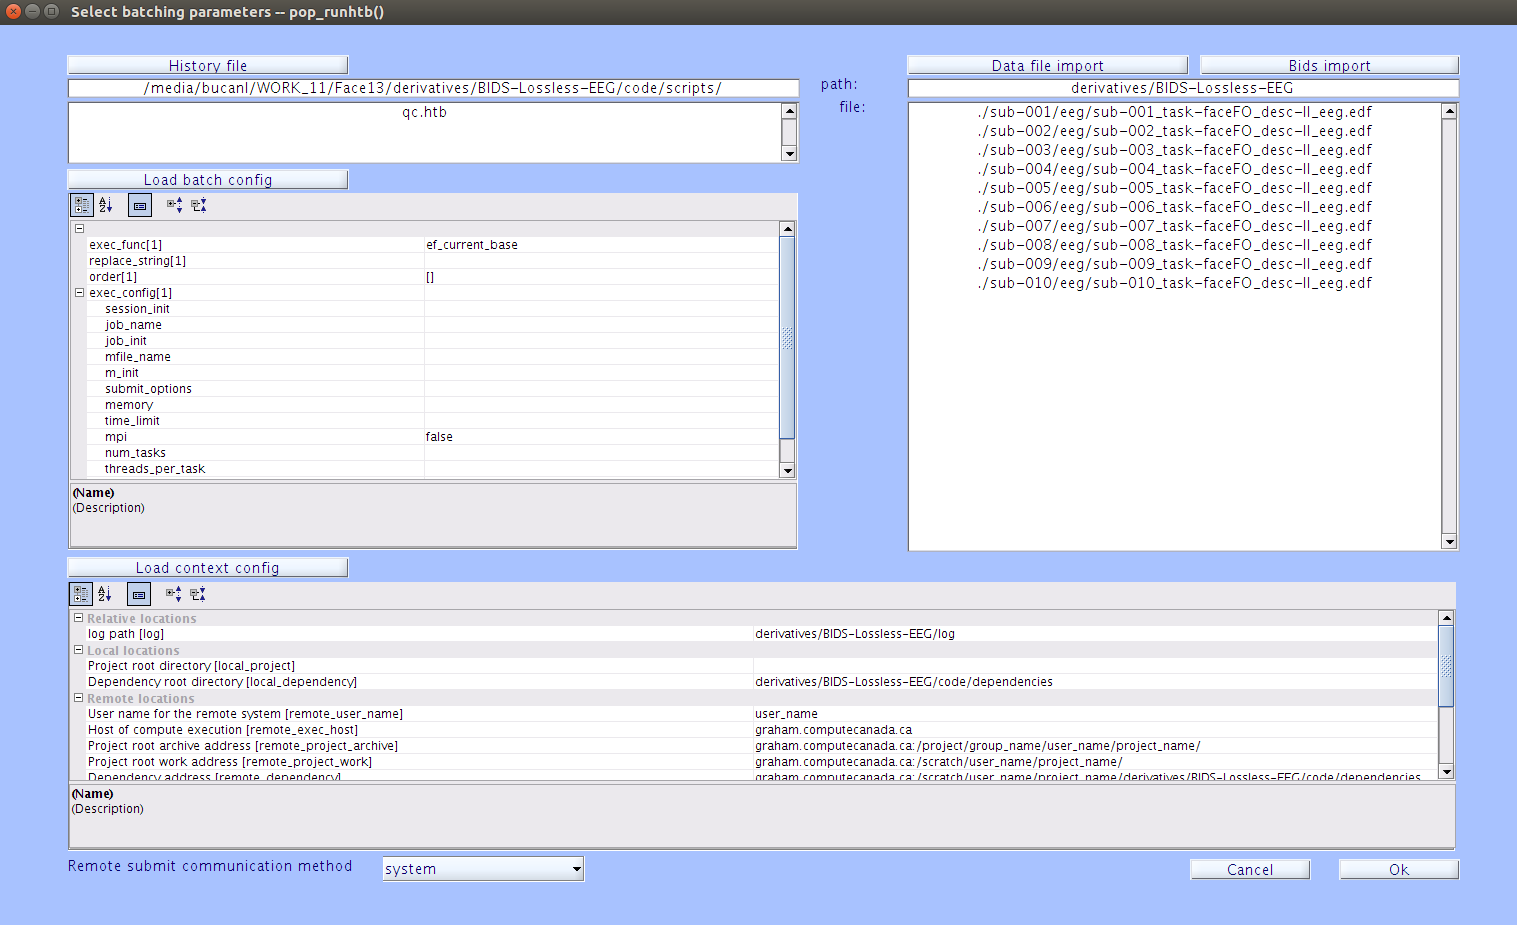
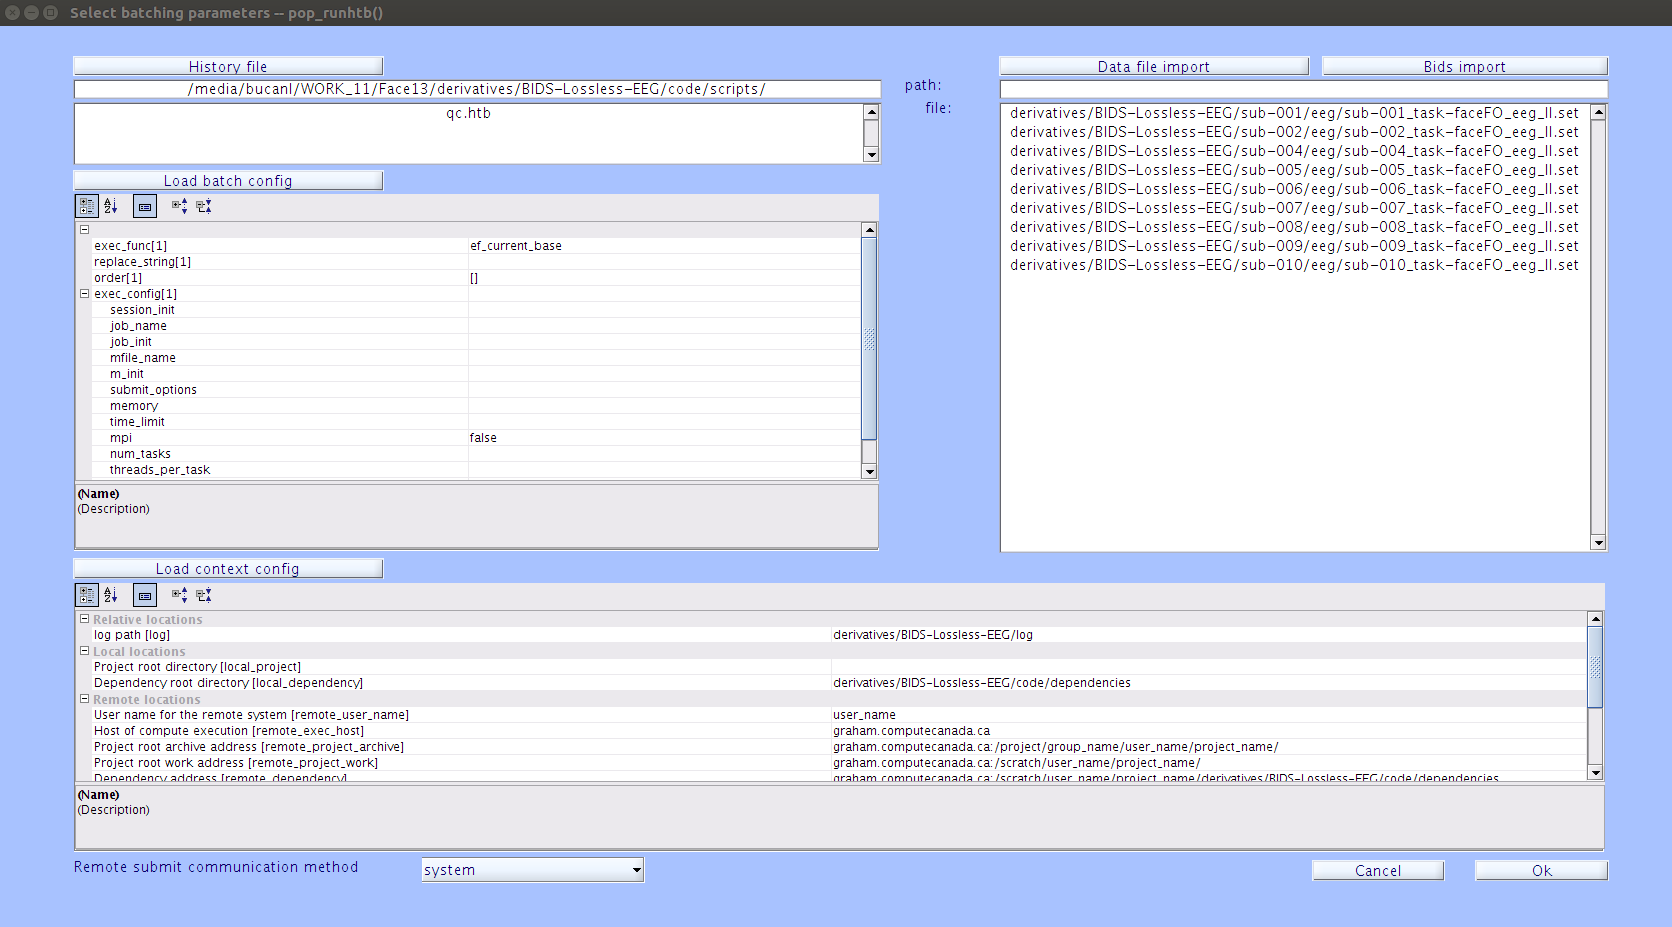
corrected steps for running QC script

diff --git a/_episodes/05-practice_qc.md b/_episodes/05-practice_qc.md
@@ -18,26 +18,26 @@ Now that we are familiar with the quality control procedure, we can practice int
 
 2. Open EEGLAB by typing the following into the command window:
 
-    ```matlab
-    >> addpath derivatives/BIDS-Lossless-EEG/code/install
-    >> lossless_path
-    >> eeglab
-    ```
+```matlab
+>> addpath derivatives/BIDS-Lossless-EEG/code/install
+>> lossless_path
+>> eeglab
+```
 
 3. If you are using an older version of MATLAB (pre-2014b), you will need to set the default figure renderer to OpenGL by typing the following into the command window:
 
-   
-    ```matlab
-    >> set(0,'DefaultFigureRenderer','OpenGL');
-    ```
+
+```matlab
+>> set(0,'DefaultFigureRenderer','OpenGL');
+```
 
 4. In the main EEGLAB window, navigate to **File->Vised Configuration**. 
 
-    ![Vised Config Dropdown Menu]({{ page.root }}/fig/visedconfig_dropdown.png)
+![Vised Config Dropdown Menu]({{ page.root }}/fig/visedconfig_dropdown.png)
 
-5. Add the vised configuration file by clicking `| Load vised config |` and then navigate to the config folder (`derivatives/BIDS-Lossless-EEG/code/config/`). Select the file named `vised_config_qc.cfg`, and click `| OK |`. The vised configuration file will load certain settings that are preferable for the QC procedure.
+5. Add the vised configuration file by clicking `| Load vised config |` and then navigate to the config folder (`derivatives/BIDS-Lossless-EEG/code/config/`). Select the file named `vised_config_qc.cfg`, and click `| OK |`. The vised configuration file will load certain settings that are preferable for the quality control (QC) procedure.
 
-    ![Vised Config Menu]({{ page.root }}/fig/visedconfig.png)
+![Vised Config Menu]({{ page.root }}/fig/visedconfig.png)
 
 6. In the main EEGLAB window, navigate to **File->Batch->Run History Template Batch**.
 
@@ -46,23 +46,21 @@ Now that we are familiar with the quality control procedure, we can practice int
 
 8. Click `| History File |` and add the `qc.htb` script located in `derivatives/BIDS-Lossless-EEG/code/scripts/`.
 
-    > ## Note 
-    > The `qc.htb` script is optimized to be run with a three monitor setup. If you do not have access to three monitors you should load the `qc_lite.htb` script located in `derivatives/BIDS-Lossless-EEG/code/scripts/`.      
-    > 
-    > {: .source}
-    {: .callout}
+> ## Note 
+> The `qc.htb` script is optimized to be run with a three monitor setup. If you do not have access to three monitors you should load the `qc_lite.htb` script located in `derivatives/BIDS-Lossless-EEG/code/scripts/`.      
+> 
+> {: .source}
+{: .callout}
 
-9. In the **path** field in the **Run History Template Batch** window, type `derivatives/BIDS-Lossless-EEG`.
+9. Open up a terminal window, and navigate to your project root directory directory:
 
-10. Open up a terminal window, and navigate to the `BIDS-Lossless-EEG` directory:
+`>> cd path/to/project/directory/Face13`
 
-    `>> cd path/to/project/directory/Face13/derivatives/BIDS-Lossless-EEG`
+10. In the terminal, list all the data files you would like to run through the QC procedure. This can be done using the find command. If using the BIDS directory structure, simply type:
 
-11. In the terminal, list all the data files you would like to run through the QC procedure. This can be done using the find command. If using the BIDS directory structure, simply type:
+`>> find derivatives/BIDS-Lossless-EEG -name "*_ll.set"`
 
-    `>> find . -name "*.edf"`
-
-12. This will print a list of all the files that have run through the pipeline. For this exercise, copy the edf file for **sub-002** from the terminal into the **file** field in the **Run History Template Batch** window. The history template batch window should look like this:
+12. This will print a list of all the files that have run through the pipeline. For this exercise, copy the .set file for **sub-002** from the terminal into the **file** field in the **Run History Template Batch** window. The history template batch window should look like this:
 
     ![RunHTB]({{ page.root }}/fig/runhtb_qc_sub2.png)
 

diff --git a/_episodes/01-running_QC_script.md b/_episodes/01-running_QC_script.md
@@ -46,31 +46,27 @@ keypoints:
 
 8. Click `| History File |` and add the `qc.htb` script located in `derivatives/BIDS-Lossless-EEG/code/scripts/`.
 
+> ## Note 
+> The `qc.htb` script is optimized to be run with a three monitor setup. If you do not have access to three monitors you should load the `qc_lite.htb` script located in `derivatives/BIDS-Lossless-EEG/code/scripts/`.      
+> 
+> {: .source}
+{: .callout}
 
 9. Open up a terminal window, and navigate to your project root directory directory:
-    > ## Note 
-    > The `qc.htb` script is optimized to be run with a three monitor setup. If you do not have access to three monitors you should load the `qc_lite.htb` script located in `derivatives/BIDS-Lossless-EEG/code/scripts/`.      
-    > 
-    > {: .source}
-    {: .callout}
-
-10. In the **path** field in the **Run History Template Batch** window, type `derivatives/BIDS-Lossless-EEG`.
-
-11. Open up a terminal window, and navigate to the `BIDS-Lossless-EEG` directory:
 
     `>> cd path/to/project/directory/Face13`
 
-12. In the terminal, list all the data files you would like to run through the QC procedure. This can be done using the find command. If using the BIDS directory structure, simply type:
+10. In the terminal, list all the data files you would like to run through the QC procedure. This can be done using the find command. If using the BIDS directory structure, simply type:
 
-    `>> find . -name "*_ll.set"`
+    `>> find derivatives/BIDS-Lossless-EEG -name "*_ll.set"`
 
-13. This will print a list of all the files that have run through the pipeline, which you can then copy straight from the terminal into the **file** field in the **Run History Template Batch** window, with one path/filename per line. The history template batch window should look like this:
+11. This will print a list of all the files that have run through the pipeline, which you can then copy straight from the terminal into the **file** field in the **Run History Template Batch** window, with one path/filename per line. The history template batch window should look like this:
 
     ![RunHTB]({{ page.root }}/fig/runhtb.png)
 
-14. Click `| Ok |` to start the QC batch process.
+12. Click `| Ok |` to start the QC batch process.
 
-15. Once you click `| Ok |`, the QC windows will open for your first file. The files will open in alphabetical order. Several windows will open for each file you QC, including: 
+13. Once you click `| Ok |`, the QC windows will open for your first file. The files will open in alphabetical order. Several windows will open for each file you QC, including: 
 
     <span style="color:red">A.</span> A window that displays the **component** EEG data. This is the window that you will be interacting with as you QC. You will be making your decisions in this window by adding or removing a manual mark for components or time points. Components are sorted by the percent data variance accounted for, with the top components accounting for a greater percentage of the channel data. To scroll through the data, use the `<<` and `>>` buttons in this window. These buttons will scroll both the component EEG data and the channel EEG data windows (Figure C). Your decisions can be saved by clicking the `| Update EEG Structure |` button in the **component** EEG data window.
 
